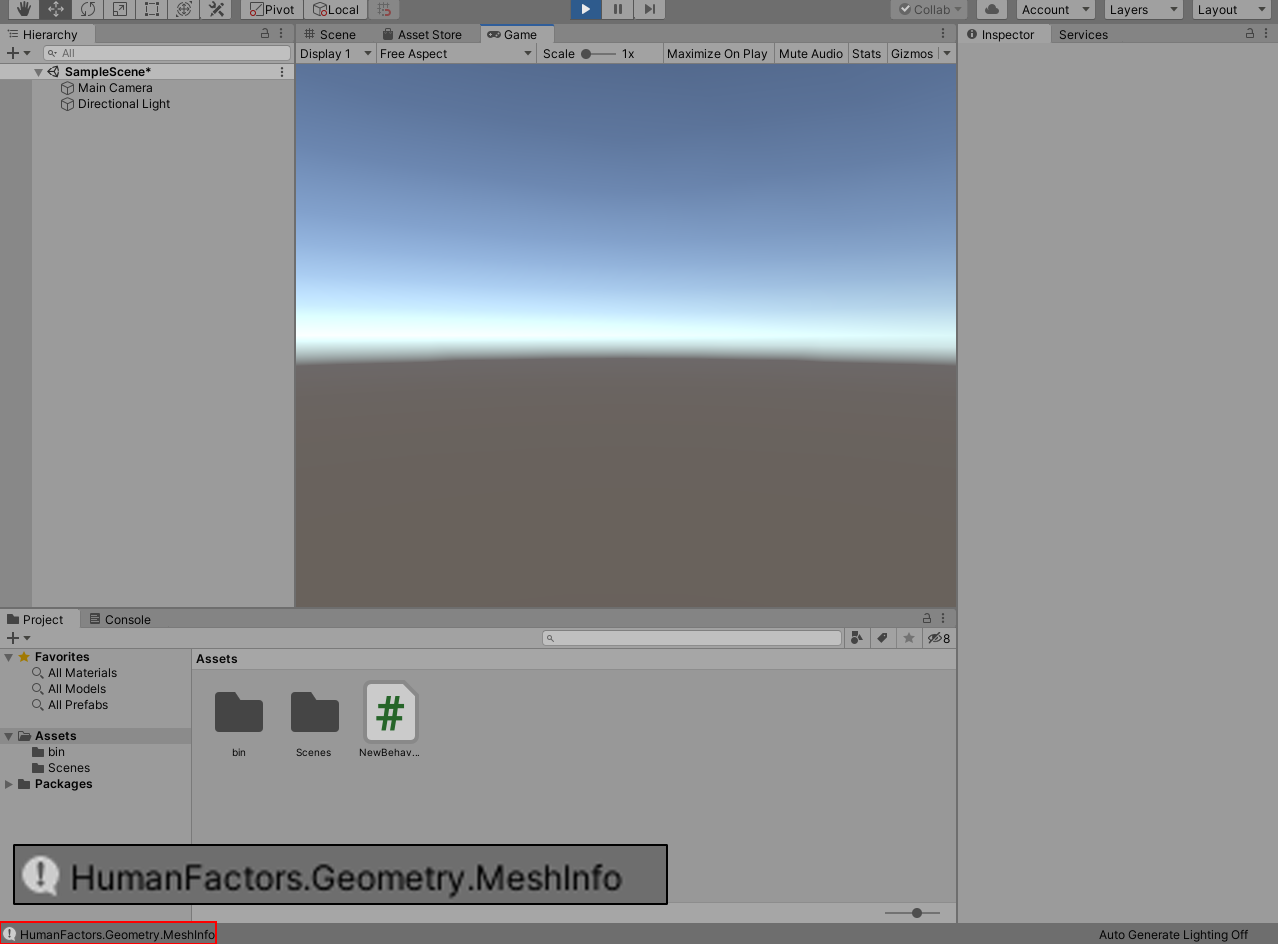
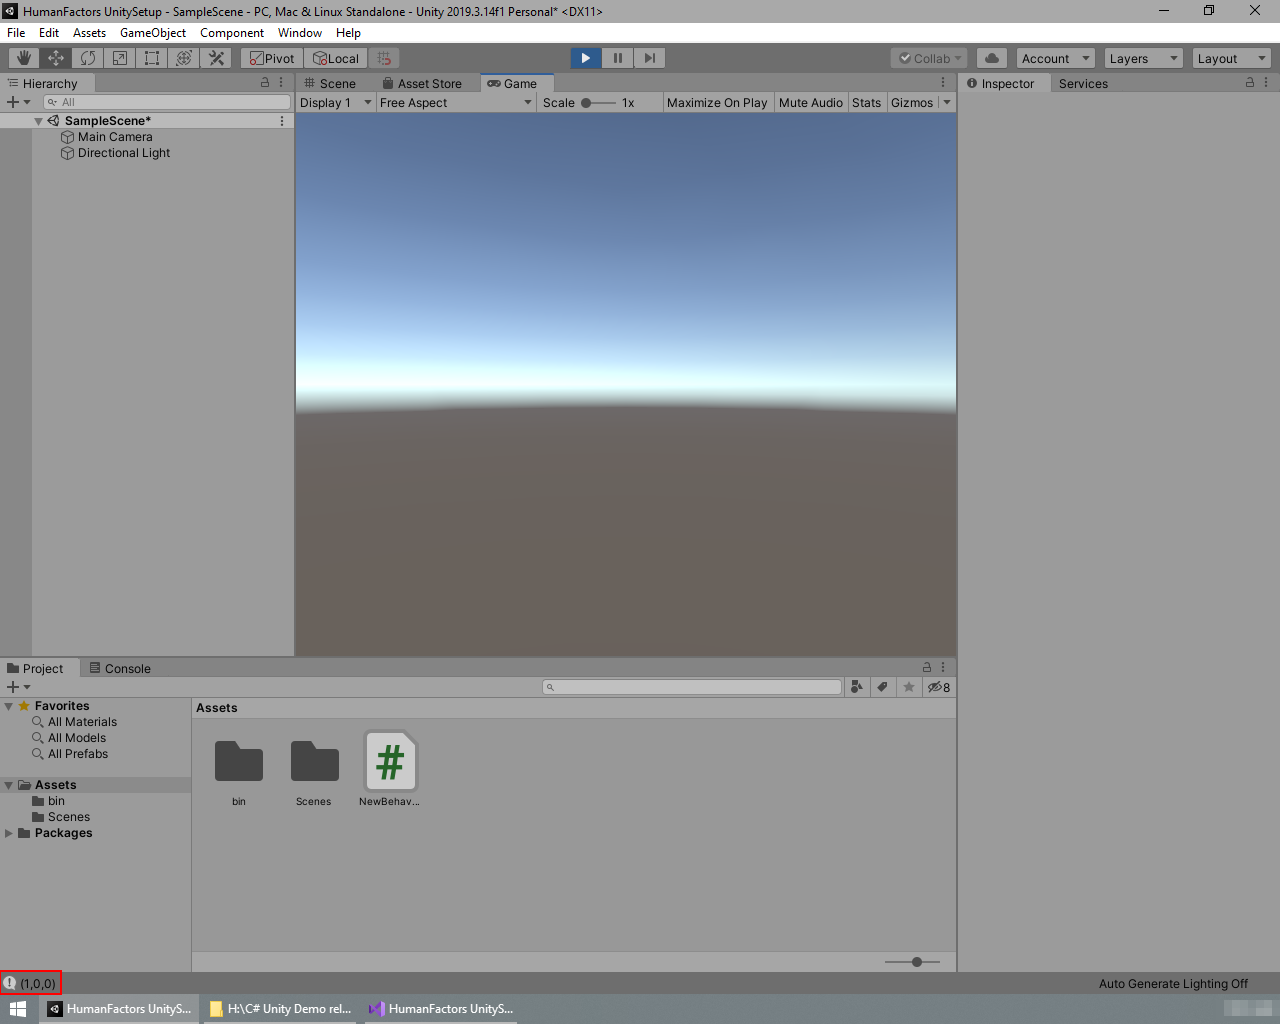
Unity Project Setup, demonstrate firing a ray
- Show magnified console output
- Add new images to demonstrate firing the ray
- Add an arrow to the bin to assets picture
- Add an image of Using Declarations

diff --git a/docs/C# Documentation/markdown/UnityProjectSetup.md b/docs/C# Documentation/markdown/UnityProjectSetup.md
@@ -1,5 +1,6 @@
 
 # Walkthrough
+
 ## Before we begin
 
  This guide will demonstrate setting up a new unity project from scratch, then importing the HumanFactors API and verifying that it's working. 
@@ -13,20 +14,18 @@
 1. embree3.dll
 2. HumanFactors.dll
 3. HumanFactorsCSharp.dll
-4. Microsoft.VisualStudio.QualityTools.UnitTestFramework.dll
-5. msvcp140.dll
-6. System.Buffers.dll
-7. System.Memory.dll
-8. System.Runtime.CompilerServices.Unsafe.dll
-9. tbb.dll
-10. vcomp140.dll
-11. vcruntime140.dll
-12. vcruntime140_1.dll
+4. msvcp140.dll
+5. System.Buffers.dll
+6. System.Memory.dll
+7. System.Runtime.CompilerServices.Unsafe.dll
+8. tbb.dll
+9. vcomp140.dll
+10. vcruntime140.dll
+11. vcruntime140_1.dll
 ```
 
 - An installation of Visual Studio with Unity integration. Instructions for installing Visual Studio in Unity are available [here](https://docs.microsoft.com/en-us/visualstudio/cross-platform/getting-started-with-visual-studio-tools-for-unity?view=vs-2019).
   
-
 ## Creating a new project
 
 Open up the Unity Hub then click the *NEW* button.
@@ -42,11 +41,11 @@ Upon completion you should be greeted by an empty unity scene.
 
 ## Importing The Human Factors Library
 
-Now that the project is set up, we need to place the binaries for HumanFactors in the assets folder so Unity can see and interface with them. Unzip the HumanFactors release package(Don't try to drag from a zipped folder you will get an error), then drag the `bin` folder into the assets window. If you don't see the assets window, then you can click the assets folder on the left side directly under the project tab. 
+Now that the project is set up, we need to place the binaries for HumanFactors in the assets folder so Unity can see and interface with them. Unzip the HumanFactors release package(Don't try to drag from a zipped folder you will get an error), then drag the `bin` folder into the assets window. If you don't see the assets window, then you can click the assets folder on the left side directly under the project tab.
 
 ![Moving the bin folder into the assets directory](../images/bin_to_assets.png)
 
-To verify that the installation is working, we're going to create a small script that constructs a sample plane. Right click on a blank space in the assets window, mouse over *Create*, then select  then select *C# Script*. 
+To verify that the installation is working, we're going to create a small script that constructs a sample plane. Right click on a blank space in the assets window, mouse over *Create*, then select  then select *C# Script*.
 
 !["Creating a new C# script"](../images/create_new_script.png)
 
@@ -58,15 +57,34 @@ Double click on the newly created script to open visual studio. If Mono-Develop 
 
 !["HumanFactors referenced by your project"](../images/visual_studio_human_factors_reference.png)
 
-## Creating A Plane in HumanFactors
-Now that we know the library can be referenced by our new script, we will create a plane to ensure that it's working correctly. In the VisualStudio window you've just opened, add the line: 
-``` C#
-using HumanFactors.Geometry;
-```
- to the top of the file, then In the `Start()` function of new behaviour script, add the following code to create a new plane from a list of vertices/indices.
+## Creating A Plane and Firing a Ray at it. in HumanFactors
+
+Now that we know the HumanFactors library can be referenced by our New Unity Project, lets check to see that it's working with a simple script. This script will perform the following when playmode is entered:
+
+1) Create a Plane
+2) Fire a ray at the plane
+3) Get the point where the ray intersected the plane.
+
+In the Visual Studio window you've just opened, Look at the contents of NewBehavior Script.cs It should match this image:
+
+!["NewBehaviourScriptBlank](../images/blank_new_behaviour_script.png)
+
+### Writing the Script
+
+To reduce the length of calls into HumanFactors, we're going to declare which namespaces will be used in this script. Add the following lines to the top of the script
 
 ``` C#
-        /// Create the array of the plane's vertices and indices
+using HumanFactors.Geometry;
+using HumanFactors.RayTracing;
+```
+
+The top block of your script should look like this.
+!["NewBehaviourScript Usings"](../images/add_using_delcarations.png)
+
+Now that we've declared what we're using HumanFactors, lets actually use it in our code. In the `Start()` function of new behaviour script, add the following code to create a new plane from a list of vertices/indices.
+
+``` C#
+        /// Create an array of a plane's vertices and indices
         float[] plane_vertices = {
             -20f, 0.0f, 20f,
             -20f, 0.0f, -20f,
@@ -75,23 +93,37 @@ using HumanFactors.Geometry;
         };
         int[] plane_indices = { 3, 1, 0, 2, 3, 0 };
 
-        /// Send them to human factors
+        /// Send them to HumanFactors
         MeshInfo Plane = new MeshInfo(plane_indices, plane_vertices);
 
-        UnityEngine.Debug.Log(Plane);
+        /// Generate a BVH for the RayTracer
+        EmbreeBVH bvh = new EmbreeBVH(Plane);
+
+        /// Fire a ray straight down at the plane, then store the result
+        Vector3D origin = new Vector3D(1, 1, 0);
+        Vector3D direction = new Vector3D(0, -1, 0);
+        var hitpoint = EmbreeRaytracer.IntersectForPoint(bvh, origin, direction);
+
+        /// Print the x, y, and z components of the hitpoint
+        Debug.Log("(" + hitpoint.x + "," + hitpoint.y + "," + hitpoint.z + ")");
 ```
 
-After finished your entire code should look like this.
+After finished your entire code should look like this. Once you've verified this is true, make sure to save it.
 
 ![Add Using HumanFactors](../images/create_plane.png)
 
-Now that we have a usable script, we need to attach it to some game object in order to run it. Head back to the unity window, drag *NewBehaviorScript.CS* to *Main Camera* in the scene hierarchy. Since *NewBehaviorScript* is a component of the *Main Camera*, its `Start()` function containing our plane construction code will be run when the editor enters play mode.
+### Testing the Script
+
+Now that we have a usable script, we need to attach it to some game object in order to run it. In the Unity Window drag *NewBehaviorScript.cs* to *Main Camera* in the scene hierarchy. Since *NewBehaviorScript* is a component of the *Main Camera*, its `Start()` function containing our sample code will be run when the editor enters play mode.
 
 ![Add Using HumanFactors](../images/drag_into_camera.png)
 
-Click the play button to enter play mode, then look at your editor's console. If everything went right, then the console located at the bottom of your editor's window should show HumanFactors.Geometry.MeshInfo. 
-
+Click the play button (shown in blue below) to enter play mode, then look at your editor's console. If everything went right, then the console located at the bottom of your editor's window should show `(1,0,0)`, which is the exact point where the ray intersected the plane.
 
 ![Add Using HumanFactors](../images/console_show_meshinfo.png)
 
-If you've made it this far, then you're ready to move on to the Graph Generator.
+Here's a magnified image of the consoles output shown in the red box.
+
+!["Console Output"](../images/ExpectedOutput.png)
+
+If you've made it this far, then you're ready to move on to the Graph Generator. [Here's]() a zipped version of the entire Unity Project from this walkthrough.
